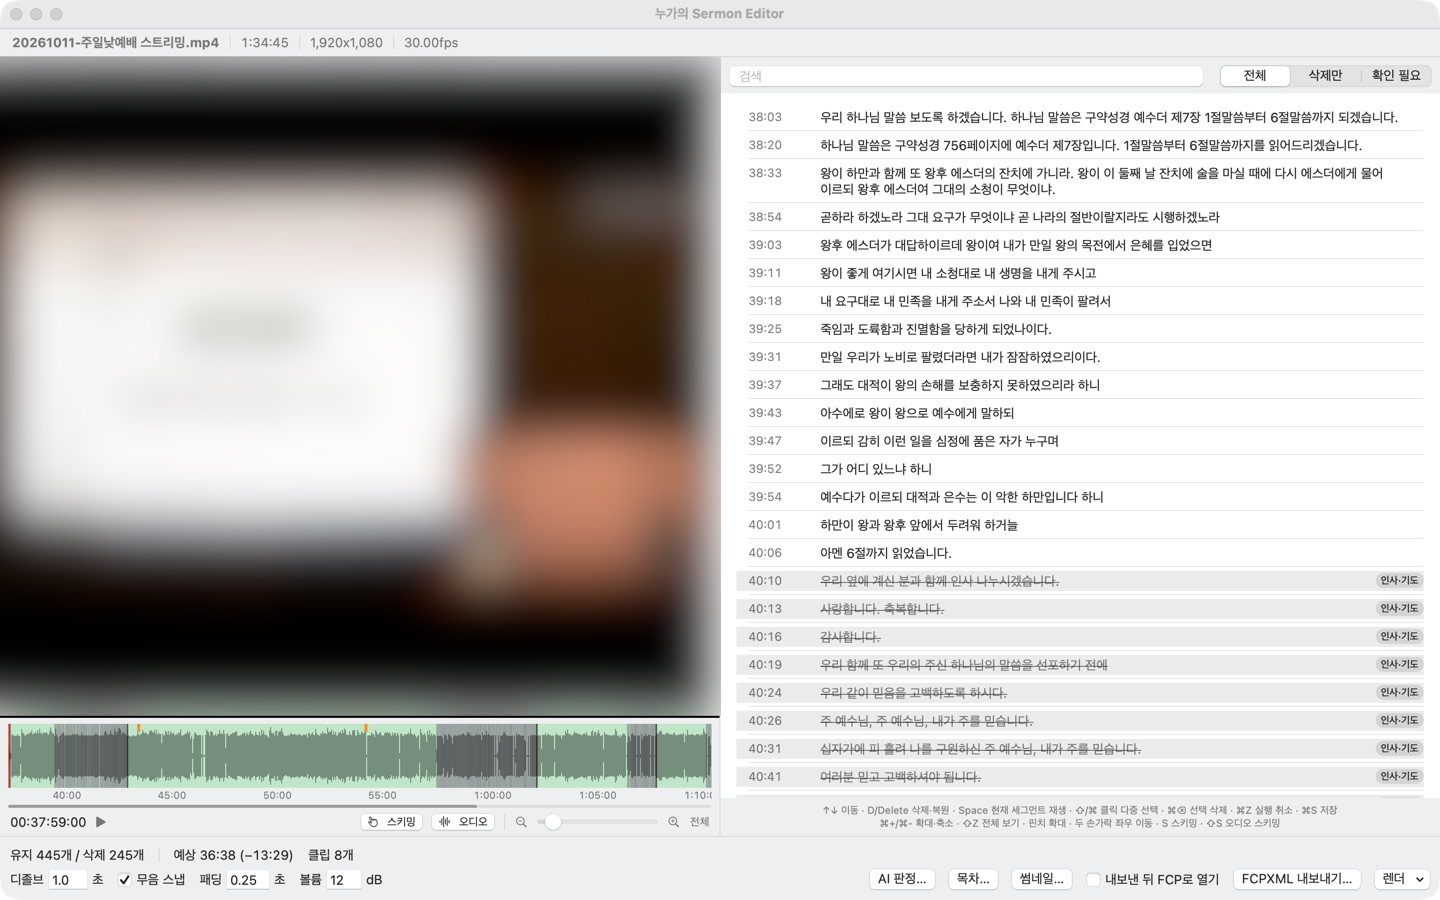
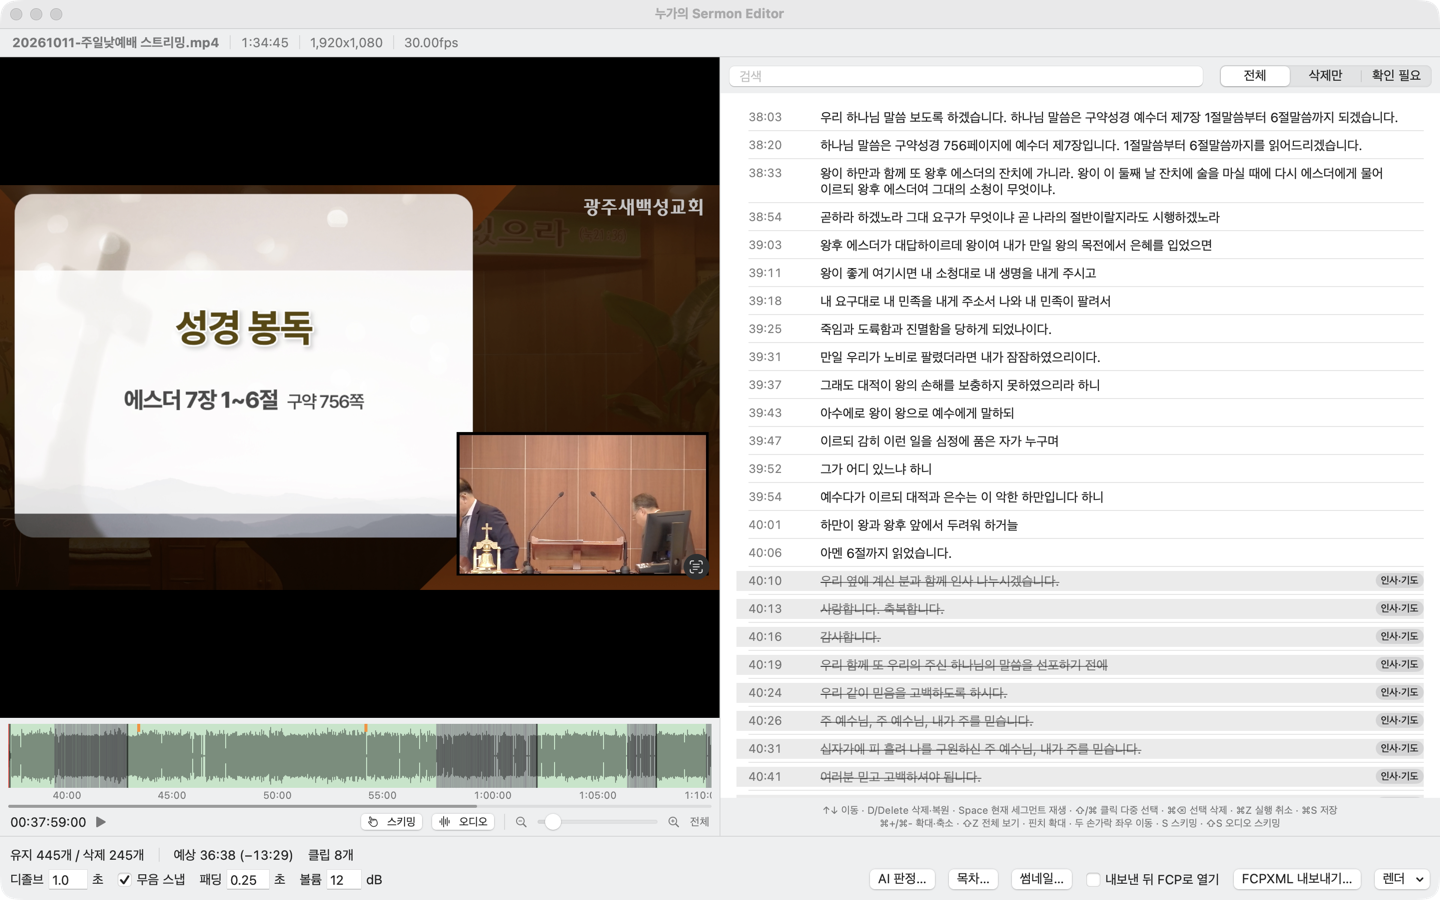
문서: README 구성 정리, 스크린샷 원본으로 교체
- 첫 줄 인용 → 주요 기능 → 스크린샷 → 이용 방법(설치·빌드)
- 스크린샷 흐림 처리 제거

Changed region(s): [[0.0, 0.0622, 0.5, 0.8089], [0.125, 0.3422, 0.2188, 0.4044], [0.0938, 0.4356, 0.25, 0.4667]]

diff --git a/README.md b/README.md
@@ -1,54 +1,43 @@
 # 누가의 Sermon Editor
 
-예배 실황 영상에서 **설교만 골라내고, 원고와 맞지 않는 이야기(광고·근황·시사 등)를 덜어낸 편집본**을 만들어 주는 macOS 앱입니다.
-결과는 **Final Cut Pro 프로젝트(FCPXML)** 로 넘기거나 바로 **MP4** 로 내보낼 수 있습니다.
-
-![첫 화면](docs-assets/welcome.png)
-
-## 이렇게 씁니다
-
-1. **영상 열기** — 예배 스트리밍 영상(.mp4 / .mov)을 끌어다 놓습니다.
-2. **설교 구간 찾기** — [설교 구간 자동 찾기]가 화면 자막(성경 봉독·설교·봉헌)을 읽어 시작·끝을 추천합니다. I / O 키로 직접 고쳐도 됩니다.
-3. **원고 선택** — 설교 원고(.hwp, .hwpx, .docx, .txt)를 고릅니다. 없어도 진행할 수 있습니다.
-4. **분석** — 음성을 받아쓰고 원고와 맞춰, 원고에서 벗어난 구간을 삭제 후보로 표시합니다. [AI 판정]을 누르면 AI가 한 번 더 가려냅니다.
-5. **확인·수정** — 전사문 목록에서 삭제/복원(D 키)하고 타임라인으로 편집점을 확인합니다.
-6. **내보내기** — FCPXML(인트로·아웃트로·썸네일·챕터 포함) 또는 최종 MP4.
-
-![설교 구간 선택](docs-assets/range-select.png)
-
-![편집 화면](docs-assets/editor.png)
+> 예배 실황 영상에서 설교만 골라내고, 원고와 맞지 않는 이야기(광고·근황·시사 등)를 덜어낸 편집본을 Final Cut Pro 프로젝트(FCPXML)나 MP4로 만들어 주는 macOS 앱
 
 ## 주요 기능
 
 | 기능 | 설명 |
 |---|---|
 | 설교 구간 자동 찾기 | 화면 자막 OCR과 빠른 음성 인식으로 설교 시작·끝 후보 제시 |
-| 원고 대조 | 음성 전사(whisper large-v3)와 원고 문장을 맞춰 원고 밖 구간 표시 |
+| 원고 대조 | 음성 전사(whisper large-v3)와 원고(.hwp, .hwpx, .docx, .txt) 문장을 맞춰 원고 밖 구간 표시 |
 | AI 탈선 판정 | 원고 밖 구간이 설교 부연인지, 광고·근황·시사 같은 탈선인지 판정 (DeepSeek · Claude · OpenAI 호환) |
 | 자연스러운 편집점 | 말과 말 사이 쉼 안에서 자르고 1초 디졸브로 연결 |
 | 타임라인 | 확대·축소(⌘+ / ⌘- / 핀치), 스키밍(S), 오디오 스키밍(⇧S) — Final Cut Pro와 같은 단축키 |
 | 설교 목차 | 유튜브 챕터용 목차를 원고 소제목·화면 자막에서 자동 생성 |
 | 썸네일 | 원고 제목·본문으로 유튜브 썸네일 자동 생성 (배경은 템플릿으로 교체) |
-| 내보내기 | Final Cut Pro용 FCPXML, 프리뷰·최종 MP4 렌더 |
+| 내보내기 | Final Cut Pro용 FCPXML(인트로·아웃트로·챕터 포함), 프리뷰·최종 MP4 렌더 |
 
-원본 영상은 읽기만 하고 절대 수정하지 않습니다. AI 판정 결과도 사용자가 확인한 뒤에만 반영됩니다.
+원본 영상은 읽기만 하고 수정하지 않습니다. AI 판정 결과도 확인한 뒤에만 반영됩니다.
 
-## 설치 (다른 Mac에서)
+## 스크린샷
 
-Apple Silicon(M1 이상) Mac, macOS 14 이상이 필요합니다.
+![첫 화면](docs-assets/welcome.png)
 
-1. [Releases](https://github.com/nugaBox/sermon-editor/releases)에서 `SermonEditor-<버전>.dmg`를 내려받아 엽니다.
-2. **누가의 Sermon Editor**를 **Applications** 폴더로 끌어다 놓습니다.
-3. DMG 안의 **필수 구성요소 설치.command**를 더블클릭합니다.
-   [Homebrew](https://brew.sh)로 ffmpeg·whisper-cpp를 설치하고 음성 인식 모델(약 3.2GB)을 내려받습니다. 처음 한 번만 하면 됩니다.
-4. 앱을 처음 열 때 "Apple이 확인할 수 없음" 안내가 나오면
-   **시스템 설정 → 개인정보 보호 및 보안** 맨 아래의 **[그래도 열기]** 를 누릅니다. (공증하지 않은 개인 배포 앱이라 처음 한 번 필요합니다)
-5. AI 판정을 쓰려면 앱의 **설정(⌘,)** 에서 API 키를 넣습니다. 키는 Mac의 키체인에만 저장됩니다.
+![설교 구간 선택](docs-assets/range-select.png)
 
-썸네일·인트로/아웃트로 템플릿(배경 이미지·음악·끝 화면)은 앱에 들어 있지 않습니다.
-쓰던 Mac의 `~/Library/Application Support/SermonCut/templates` 폴더를 같은 위치로 복사하세요.
+![편집 화면](docs-assets/editor.png)
 
-## 직접 빌드
+## 이용 방법
+
+### 설치
+
+Apple Silicon(M1 이상) Mac, macOS 14 이상.
+
+1. [Releases](https://github.com/nugaBox/sermon-editor/releases)에서 `SermonEditor-<버전>.dmg`를 내려받아 열고, 앱을 **Applications**로 끌어다 놓습니다.
+2. DMG 안의 **필수 구성요소 설치.command**를 더블클릭합니다. [Homebrew](https://brew.sh)로 ffmpeg·whisper-cpp를 설치하고 음성 인식 모델(약 3.2GB)을 내려받습니다.
+3. 처음 열 때 "Apple이 확인할 수 없음"이 나오면 **시스템 설정 → 개인정보 보호 및 보안 → [그래도 열기]**.
+4. AI 판정을 쓰려면 **설정(⌘,)** 에서 API 키를 넣습니다. 키는 키체인에만 저장됩니다.
+5. 썸네일·인트로/아웃트로 템플릿은 쓰던 Mac의 `~/Library/Application Support/SermonCut/templates` 폴더를 같은 위치로 복사합니다.
+
+### 빌드
 
 ```bash
 scripts/build-app.sh release --install   # /Applications에 설치
